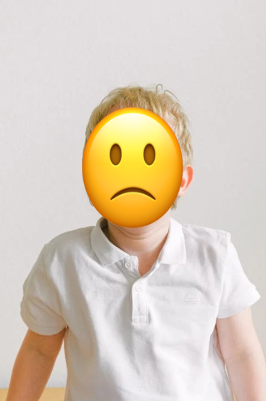
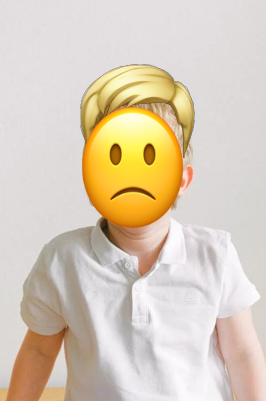
blonde fix

Changed region(s): [[0.3008, 0.1496, 0.7519, 0.389]]

diff --git a/Face&HairDetection.py b/Face&HairDetection.py
@@ -67,14 +67,14 @@ def detect_hair_color(image, face_landmarks, width, height):
 
     # Refined hair color thresholds
     hair_colors = {
-        'brown': ([5, 40, 20], [30, 255, 180]),  # Wide range for brown tones
-        'blonde': ([15, 20, 150], [45, 120, 255]),  # Expanded range for blonde tones
+        'brown': ([5, 40, 20], [14, 209, 180]),  # Wide range for brown tones
+        'blonde': ([15, 20, 150], [40, 200, 255]),  # Expanded range for blonde tones
         'black': ([0, 0, 0], [180, 255, 50]),
         'ginger': ([5, 100, 150], [15, 255, 255]),
         'gray': ([0, 0, 60], [180, 20, 180])
     }
 
-    color_match_percentages = {}
+    color_match_percentages = {}    
     for color, (lower, upper) in hair_colors.items():
         mask = cv2.inRange(hsv, np.array(lower), np.array(upper))
         match_percentage = np.sum(mask > 0) / mask.size
